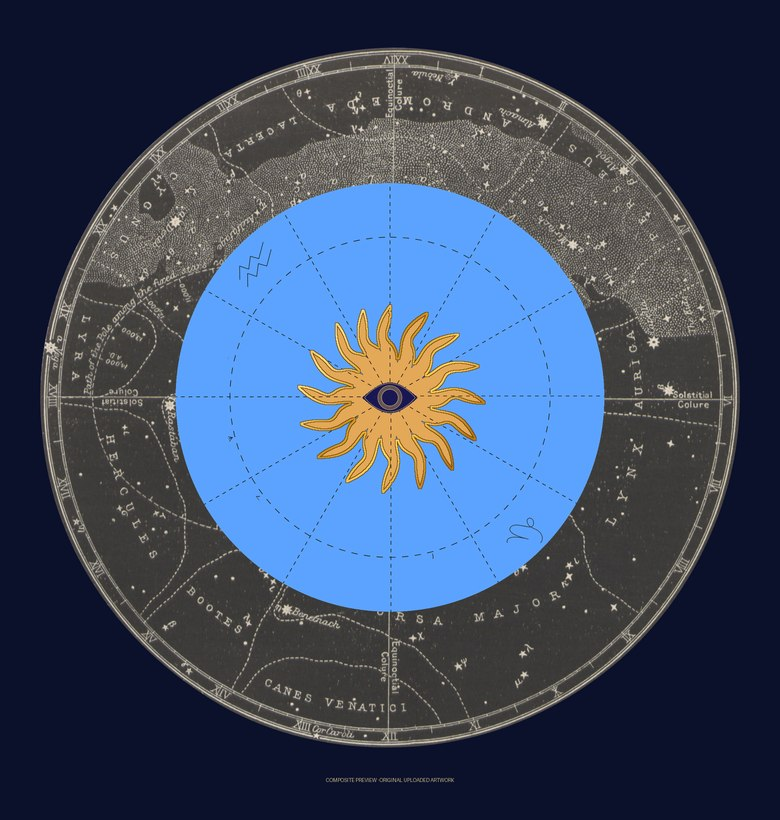
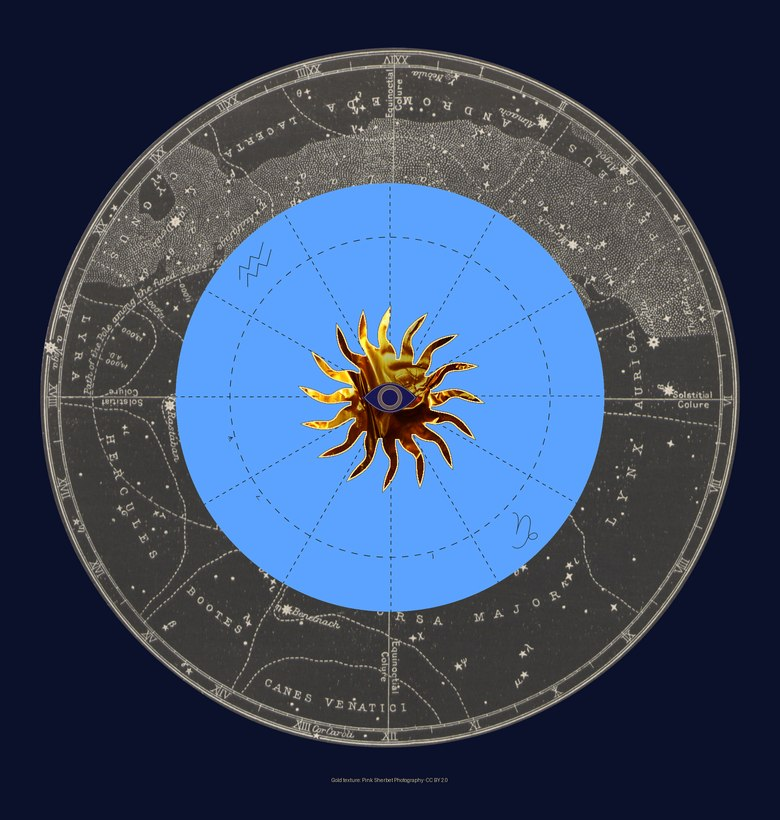
Make preview sun photographic metallic gold and turn Capricorn upright

Changed region(s): [[0.3692, 0.3659, 0.6154, 0.6098], [0.6462, 0.6098, 0.7077, 0.6707], [0.4615, 0.9451, 0.5538, 0.9756]]

diff --git a/design-previews/gold-texture-credit.md b/design-previews/gold-texture-credit.md
@@ -1,0 +1,4 @@
+Gold foil photograph by Pink Sherbet Photography, licensed CC BY 2.0. Cropped and adjusted for the sun composite.
+
+Source: https://commons.wikimedia.org/wiki/File:Gold_Foil_Metallic_Texture_Free_Creative_Commons_(6962328289).jpg
+License: https://creativecommons.org/licenses/by/2.0/
